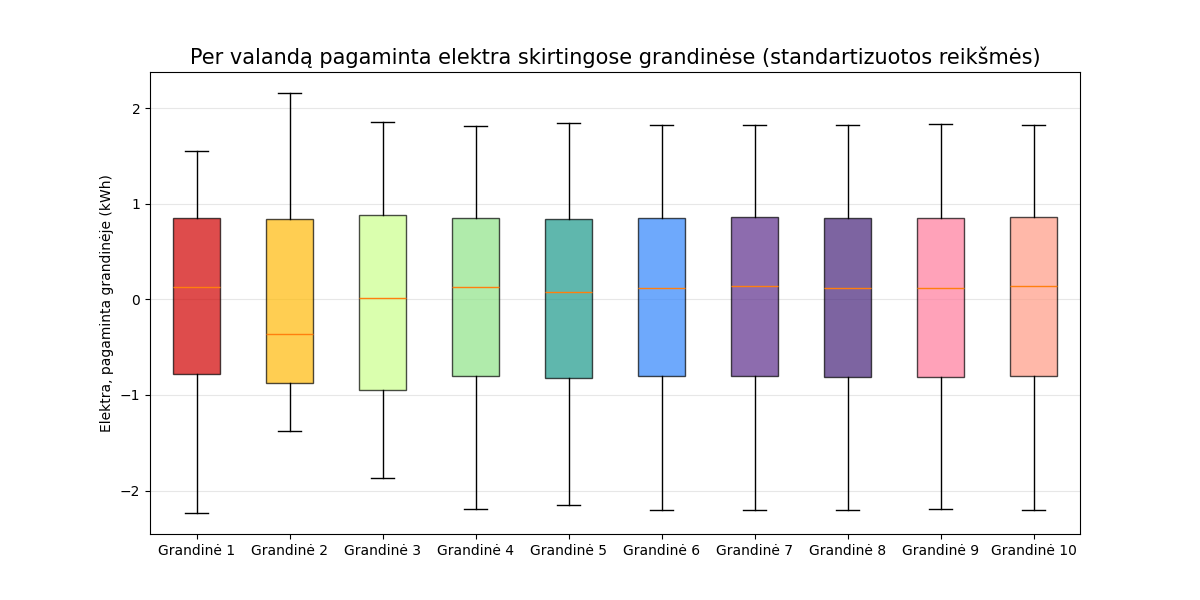
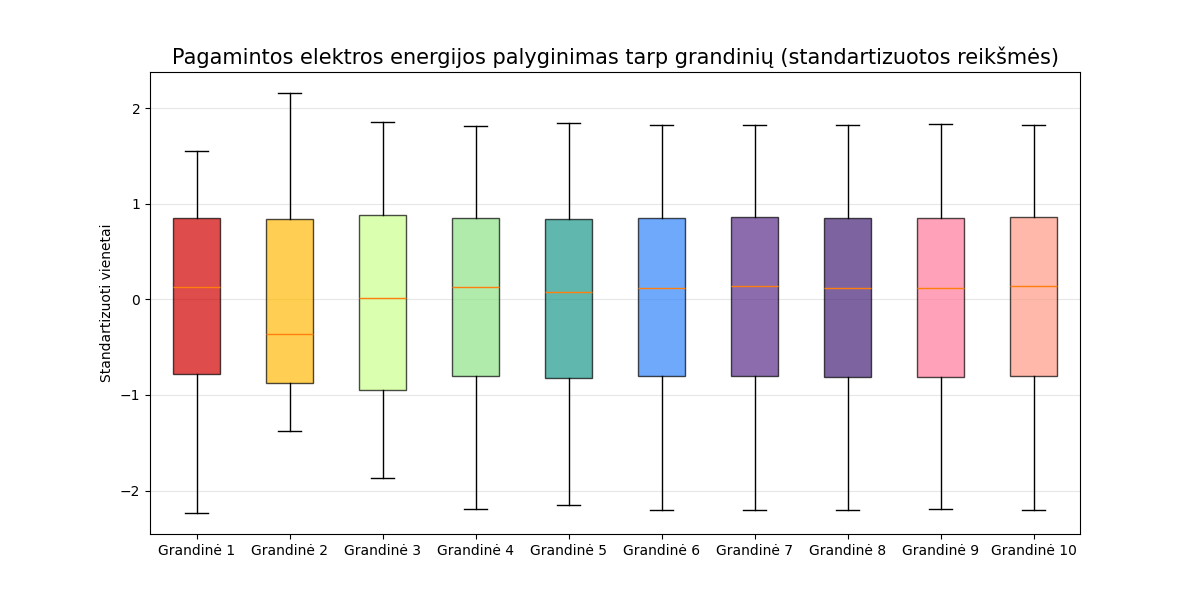
Update plot titles and labels for clarity and consistency

Changed region(s): [[0.1542, 0.06, 0.8942, 0.12], [0.0617, 0.3, 0.0925, 0.72]]

diff --git a/lab1.py b/lab1.py
@@ -68,7 +68,7 @@ sns.heatmap(
     cbar_kws={"shrink": 0.8}
 )
 
-plt.title("Koreliacijos šilumos žemėlapis", fontsize=26)
+plt.title("Koreliacijų šilumos žemėlapis", fontsize=24)
 plt.tight_layout()
 plt.savefig("grafikai/koreliacijos_heatmap.png")
 plt.show()
@@ -83,7 +83,7 @@ standartizuotas = (data_hourly[numeric_cols] - data_hourly[numeric_cols].mean())
 #%%
 colors = ["#D00000", "#ffba08", "#cbff8c", "#8fe388", "#1b998b", "#3185fc",
           "#5d2e8c", "#46237a", "#ff7b9c", "#ff9b85"]
-# Taškiniai grafikai
+
 columns = [f"string_{i}" for i in range(1, 11)]
 display_names = [f"Grandinė {i}" for i in range(1, 11)]
 
@@ -97,8 +97,10 @@ sm = scatter_matrix(
     diagonal='kde',
     color=colors[5]  
 )
-
-plt.suptitle("Grandinėse pagamintos elektros sklaidos diagrama", fontsize=32)
+plt.suptitle(
+    "Grandinėse pagamintos elektros energijos sklaidos diagrama",
+    fontsize=30)
+plt.tight_layout(rect=[0, 0, 1, 0.97])
 plt.savefig("grafikai/sklaidos.png")
 
 #%%
@@ -113,9 +115,9 @@ for i, col in enumerate(columns):
     axes[i].set_title(col)
     axes[i].set_title(f"Grandinė {i+1}")
 
-fig.supxlabel("Elektra, pagaminta grandinėje (kWh)")
+fig.supxlabel("Pagaminta elektros energija (kWh)")
 fig.supylabel("Dažnis")
-fig.suptitle("Elektros, pagamintos grandinėse per valandą, histograma", fontsize=26)
+fig.suptitle("Pagaminamos elektros energijos pasiskirstymas tarp grandinių", fontsize=26)
 
 plt.tight_layout()
 plt.savefig("grafikai/histogramos.png")
@@ -138,8 +140,8 @@ plt.xticks(
     [f"Grandinė {i}" for i in range(1, 11)]
 )
 
-plt.ylabel("Elektra, pagaminta grandinėje (kWh)")
-plt.title("Per valandą pagaminta elektra skirtingose grandinėse") 
+plt.ylabel("Pagaminta elektros energija (kWh)")
+plt.title("Pagamintos elektros energijos palyginimas tarp grandinių") 
 
 plt.grid(axis="y", alpha=0.3)
 plt.savefig("grafikai/boxplotai.png")
@@ -171,7 +173,7 @@ tick_positions = range(0, len(data_hourly.index), 16)
 ax.set_xticks(tick_positions)
 ax.set_xticklabels([data_hourly.index[i][:5] for i in tick_positions])
 plt.xlabel("Data")
-plt.title("Pagamintos elektros grandinėse šilumos žemėlapis", fontsize=24)
+plt.title("Pagamintos elektros energijos dinamika", fontsize=24)
 plt.tight_layout()
 plt.savefig("grafikai/laikute_heatmap.png")
 plt.show()
@@ -190,9 +192,9 @@ for i, col in enumerate(columns):
     axes[i].set_title(col)
     axes[i].set_title(f"Grandinė {i+1}")
 
-fig.supxlabel("Elektra, pagaminta grandinėje (kWh)")
+fig.supxlabel("Standartizuoti vienetai")
 fig.supylabel("Dažnis")
-fig.suptitle("Elektros, pagamintos grandinėse per valandą, histograma (standartizuotos reikšmės)", fontsize=24)
+fig.suptitle("Pagaminamos elektros energijos pasiskirstymas tarp grandinių (standartizuotos reikšmės)", fontsize=26)
 
 plt.tight_layout()
 plt.savefig("grafikai/histogramos_standartizuotos.png")
@@ -215,8 +217,8 @@ plt.xticks(
     [f"Grandinė {i}" for i in range(1, 11)]
 )
 
-plt.ylabel("Elektra, pagaminta grandinėje (kWh)")
-plt.title("Per valandą pagaminta elektra skirtingose grandinėse (standartizuotos reikšmės)", fontsize=15) 
+plt.ylabel("Standartizuoti vienetai")
+plt.title("Pagamintos elektros energijos palyginimas tarp grandinių (standartizuotos reikšmės)", fontsize=15) 
 
 plt.grid(axis="y", alpha=0.3)
 plt.savefig("grafikai/boxplotai_standartizuoti.png")
@@ -226,7 +228,7 @@ plt.show()
 #heatmapas laikutei standartizuotos reikšmės
 
 plt.figure(figsize=(20, 8))
-sns.heatmap(standartizuotas[columns].T, cmap='YlOrRd', cbar_kws={'label': 'kWh'})
+sns.heatmap(standartizuotas[columns].T, cmap='YlOrRd', cbar_kws={'label': 'Standartizuoti vienetai'})
 ax = plt.gca()
 new_labels = [f"Grandinė {i}" for i in range(1, 11)]
 ax.set_yticklabels(new_labels, rotation=0)
@@ -234,13 +236,14 @@ tick_positions = range(0, len(standartizuotas.index), 16)
 ax.set_xticks(tick_positions)
 ax.set_xticklabels([standartizuotas.index[i][:5] for i in tick_positions])
 plt.xlabel("Data")
-plt.title("Pagamintos elektros grandinėse šilumos žemėlapis (standartizuotos reikšmės)",fontsize=24)
+plt.title("Pagamintos elektros energijos dinamika (standartizuotos reikšmės)",fontsize=24)
 plt.tight_layout()
 plt.savefig("grafikai/laikute_heatmap_standartizuotas.png")
 plt.show()
 print(tick_positions)
 
-#%%
+
+# %%
 
 columns = [f"string_{i}" for i in range(1, 11)]
 display_names = [f"Grandinė {i}" for i in range(1, 11)]
@@ -253,8 +256,12 @@ sm = scatter_matrix(
     alpha=0.6,
     figsize=(20, 20),
     diagonal='kde',
-    color=colors[5]  
+    color=colors[5]
 )
 
-plt.suptitle("Grandinėse pagamintos elektros sklaidos diagrama (standartizuotos reikšmės)", fontsize=24)
+plt.suptitle(
+    "Grandinėse pagamintos elektros energijos sklaidos diagrama (standartizuotos reikšmės)",
+    fontsize=30)
+plt.tight_layout(rect=[0, 0, 1, 0.97])
+
 plt.savefig("grafikai/sklaidos_standartizuoti.png")
